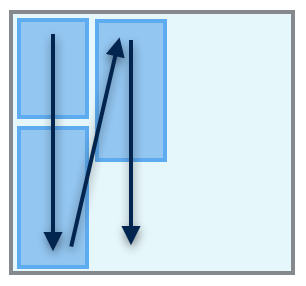
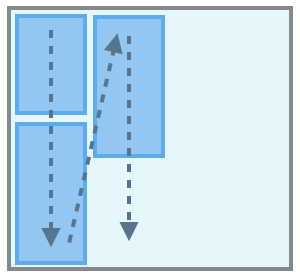
Update doc

Changed region(s): [[0.0, 0.0, 0.99, 0.9714]]

diff --git a/README.md b/README.md
@@ -60,9 +60,8 @@ FlexLayout default properties are different from CSS flexbox. FlexLayout use the
 
 ## Creation / definition : createBox / addChild/ define
 
-# flex container
-
-# flex items
+# flex container properties
+This section describe flex container's properties. 
 
 
 ## Direction, justity, align / alignContent / alignSelf / position
@@ -74,10 +73,32 @@ FlexLayout default properties are different from CSS flexbox. FlexLayout use the
     public func position(_ value: Position) -> Flexbox {
     public func flexWrap(_ value: Wrap) -> Flexbox {
     public func overflow(_ value: Overflow) -> Flexbox {
-    
-### justify()
+   
+### direction()
 
-|                     	| direction(.column) (default) | direction(.row) |
+| **column** (default) 	| <img src="docs/images/flexlayout-direction-column.png" width="100"/>|
+|---------------------|:------------------:|
+| **columnReverse** | <img src="docs/images/flexlayout-direction-columnReverse.png" width="100"/>|
+| **row** | <img src="docs/images/flexlayout-direction-row.png" width="190"/>|
+| **rowReverse** | <img src="docs/images/flexlayout-direction-rowReverse.png" width="190"/>|
+
+<br/>
+ 
+### wrap()
+
+|                     	| direction(.column) | direction(.row) |
+|---------------------	|:------------------:|:---------------:|
+| **nowrap** (default) 	| <img src="docs/images/flexlayout-wrap-column-nowrap.png" width="130"/>| <img src="docs/images/flexlayout-wrap-row-nowrap.png" width="180"/>|
+| **wrap** | <img src="docs/images/flexlayout-wrap-column-wrap.png" width="130"/>| <img src="docs/images/flexlayout-wrap-row-wrap.png" width="180"/>|
+| **wrapReverse**	| <img src="docs/images/flexlayout-wrap-column-wrapReverse.png" width="130"/>| <img src="docs/images/flexlayout-wrap-row-wrapReverse.png" width="180"/>|
+
+<br/>
+
+
+### justify()
+In CSS this property is named `justifyContent`.
+
+|                     	| direction(.column) | direction(.row) |
 |---------------------	|:------------------:|:---------------:|
 | **flexStart** (default) 	| <img src="docs/images/flexlayout-justify-column-flexstart.png" width="140"/>| <img src="docs/images/flexlayout-justify-row-flexstart.png" width="160"/>|
 | **flexEnd**	| <img src="docs/images/flexlayout-justify-column-flexend.png" width="140"/>| <img src="docs/images/flexlayout-justify-row-flexend.png" width="160"/>|
@@ -87,9 +108,9 @@ FlexLayout default properties are different from CSS flexbox. FlexLayout use the
 
 <br/>
 
-### alignContent()
+### alignItems()
 
-|                     	| direction(.column) (default) | direction(.row) |
+|                     	| direction(.column) | direction(.row) |
 |---------------------	|:------------------:|:---------------:|
 | **stretch** (default) 	| <img src="docs/images/flexlayout-align-column-stretch.png" width="140"/>| <img src="docs/images/flexlayout-align-row-stretch.png" width="160"/>|
 | **flexStart**	| <img src="docs/images/flexlayout-align-column-flexStart.png" width="140"/>| <img src="docs/images/flexlayout-align-row-flexStart.png" width="160"/>|
@@ -99,21 +120,11 @@ FlexLayout default properties are different from CSS flexbox. FlexLayout use the
 
 <br/>
 
-### wrap()
+### alignContent()
 
-|                     	| direction(.column) (default) | direction(.row) |
-|---------------------	|:------------------:|:---------------:|
-| **nowrap** (default) 	| <img src="docs/images/flexlayout-wrap-column-nowrap.png" width="140"/>| <img src="docs/images/flexlayout-wrap-row-nowrap.png" width="160"/>|
-| **wrap** | <img src="docs/images/flexlayout-wrap-column-wrap.png" width="140"/>| <img src="docs/images/flexlayout-wrap-row-wrap.png" width="160"/>|
-| **wrapReverse**	| <img src="docs/images/flexlayout-wrap-column-wrapReverse.png" width="140"/>| <img src="docs/images/flexlayout-wrap-row-wrapReverse.png" width="160"/>|
+`alignContent` is only applied when wrap mode is enabled (`wrap` / `wrapReverse`).
 
-<br/>
-
-### alignItems()
-
-`alignItems` is only applied when wrap mode is enabled.
-
-|                     	| direction(.column) (default) | direction(.row) |
+|                     	| direction(.column) | direction(.row) |
 |---------------------	|:------------------:|:---------------:|
 | **flexStart** (default) 	| <img src="docs/images/flexlayout-alignItems-column-flexStart.png" width="140"/>| <img src="docs/images/flexlayout-alignItems-row-flexStart.png" width="160"/>|
 | **flexEnd**	| <img src="docs/images/flexlayout-alignItems-column-flexEnd.png" width="140"/>| <img src="docs/images/flexlayout-alignItems-row-flexEnd.png" width="160"/>|
@@ -125,12 +136,17 @@ FlexLayout default properties are different from CSS flexbox. FlexLayout use the
 <br/>
 
 
+# flex children properties
+This section describe flex children's properties.
+
 ## flexGrow / flexShrink / flexBasis
     public func flexGrow(_ value: CGFloat) -> Flexbox {
     public func flexShrink(_ value: CGFloat) -> Flexbox {
     public func flexBasis(_ value: CGFloat) -> Flexbox {
     public func flex(_ grow: CGFloat, shrink: CGFloat? = nil, basis: CGFloat? = nil) -> Flexbox {
     This is the shorthand for flex-grow, flex-shrink and flex-basis combined. The second and third parameters (flex-shrink and flex-basis) are optional. Default is 0 1 auto
+
+## order
 
 ## Absolute positionning: left / top / right / bottom / start / end
     public func left(_ value: CGFloat) -> Flexbox {
